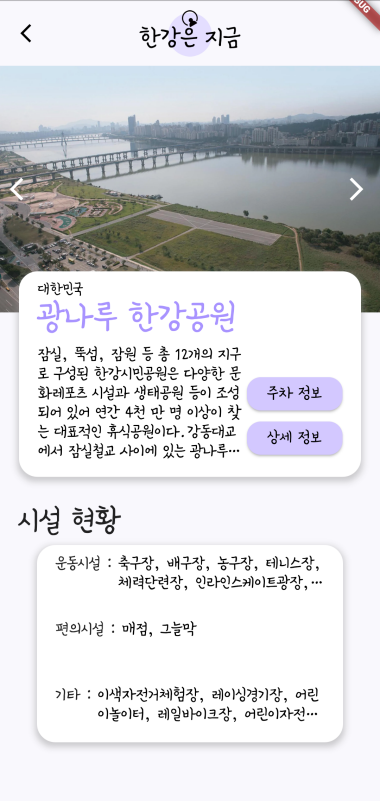
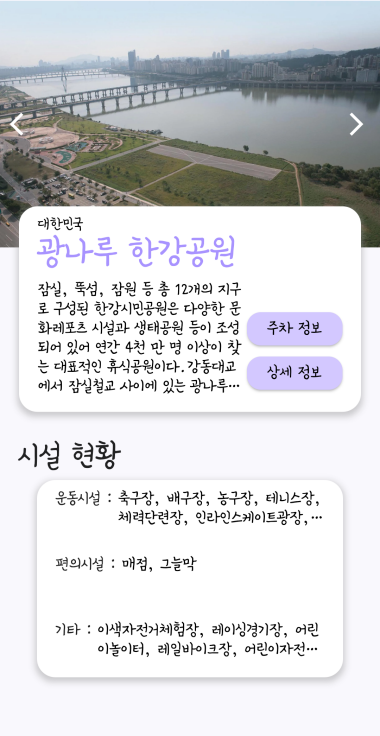
배경화면 크기 조정

diff --git a/lib/mainpages/widgetpages/service.dart b/lib/mainpages/widgetpages/service.dart
@@ -29,7 +29,7 @@ class _ServiceInfo extends State<ServiceInfo> {
           children: <Widget>[
             Image.asset(
               'assets/images/title_icon.png',
-              fit: BoxFit.cover,
+              fit: BoxFit.contain,
               height: 50,
             ),
             Container(
@@ -82,7 +82,7 @@ class SV extends StatelessWidget {
         Container(
           decoration: BoxDecoration(
             image: DecorationImage(
-              fit: BoxFit.cover,
+              fit: BoxFit.contain,
               image: AssetImage('assets/guide/home.png'), // 배경 이미지
             ),
           ),
@@ -203,7 +203,7 @@ class SV extends StatelessWidget {
         Container(
           decoration: BoxDecoration(
             image: DecorationImage(
-              fit: BoxFit.cover,
+              fit: BoxFit.contain,
               image: AssetImage('assets/guide/ditaile.png'),
               // 배경 이미지
             ),
@@ -220,7 +220,7 @@ class SV extends StatelessWidget {
                     child: Column(children: [
                       SizedBox(
                         width: appheight * 0.15,
-                        height: appheight * 0.15,
+                        height: appheight * 0.1,
                       ),
                       Card(
                         shape: RoundedRectangleBorder(
@@ -241,7 +241,7 @@ class SV extends StatelessWidget {
                       ),
                       SizedBox(
                         width: appheight * 0.03,
-                        height: appheight * 0.015,
+                        height: appheight * 0.03,
                       ),
                       Card(
                         shape: RoundedRectangleBorder(
